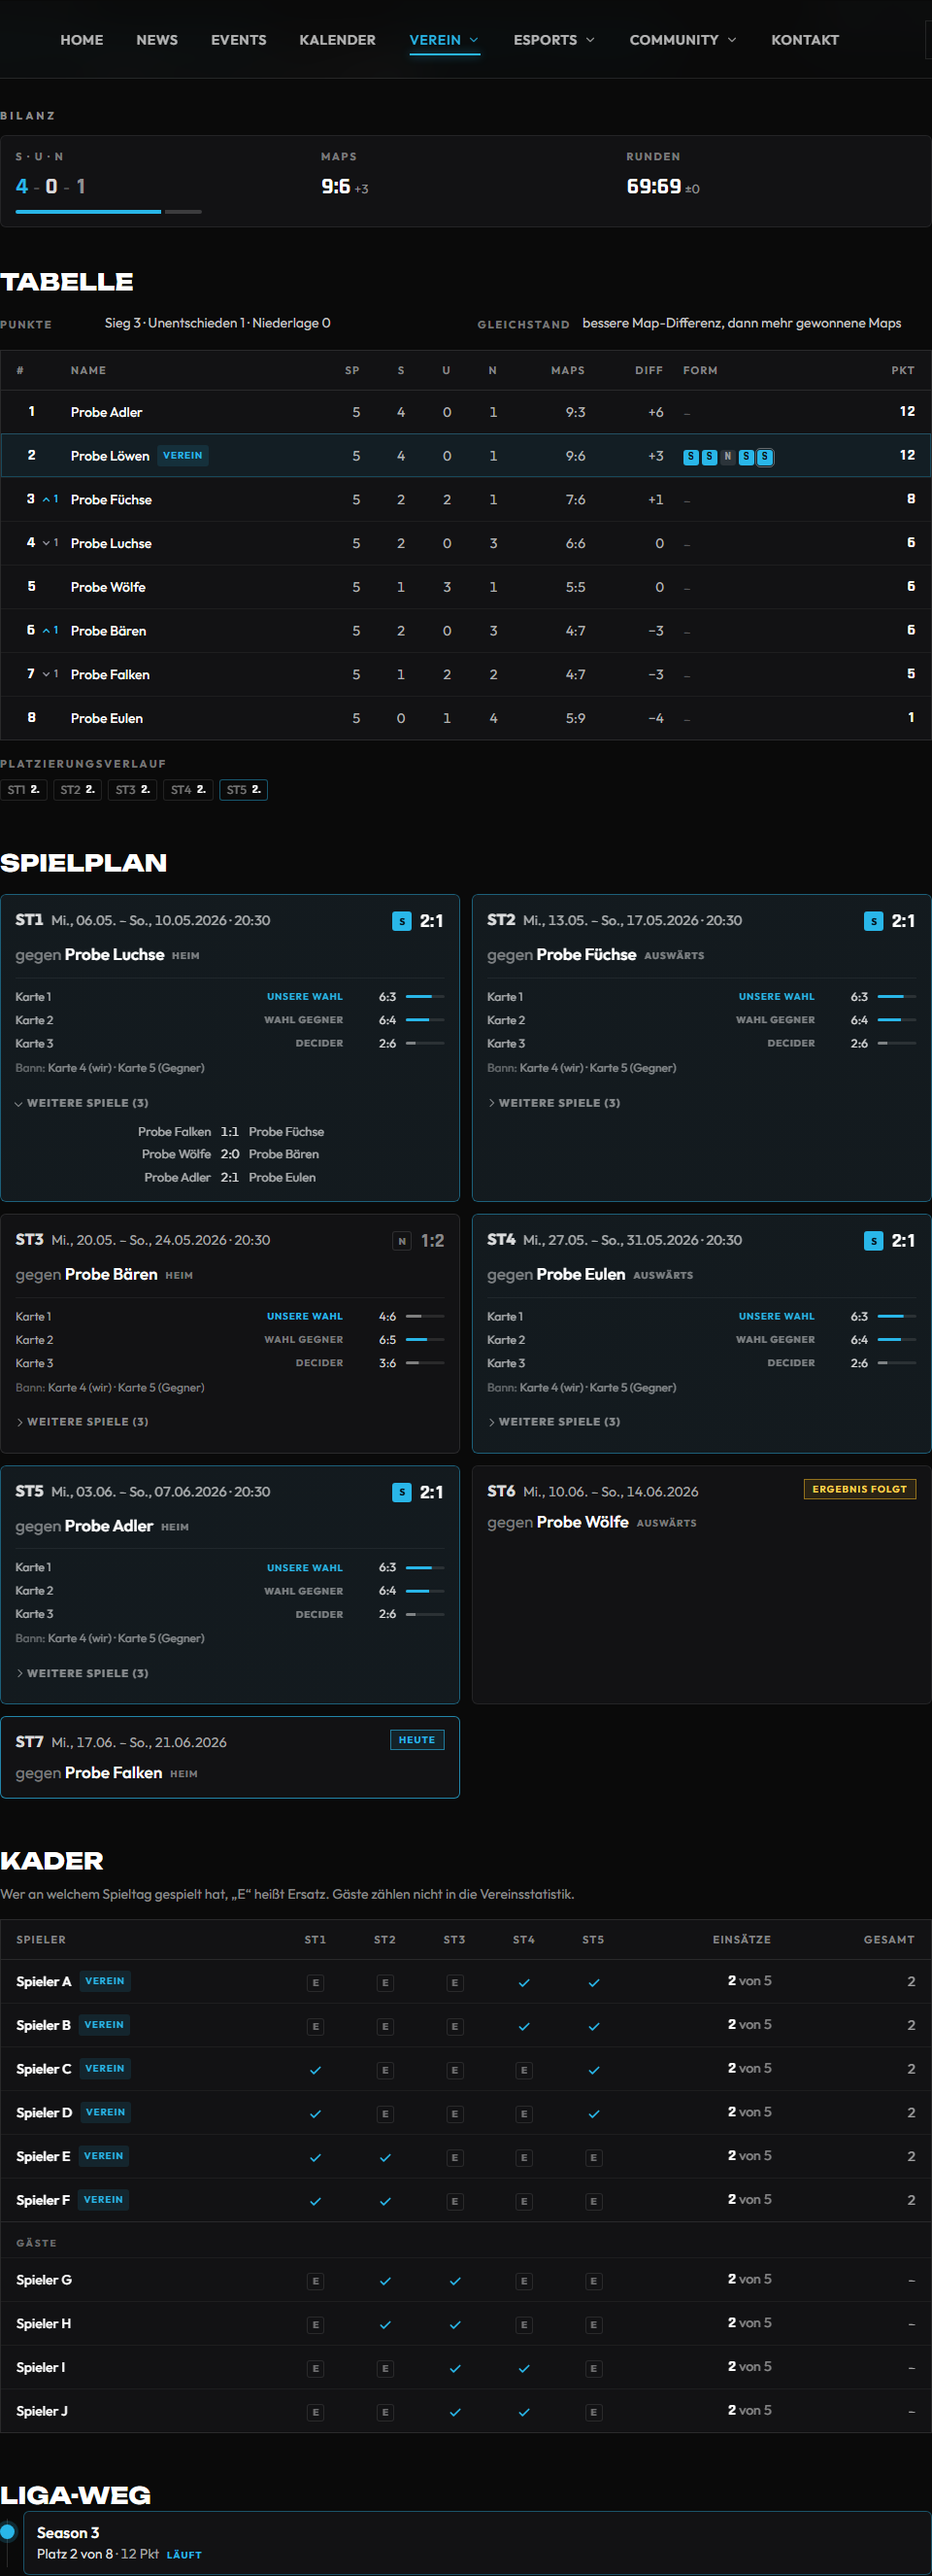
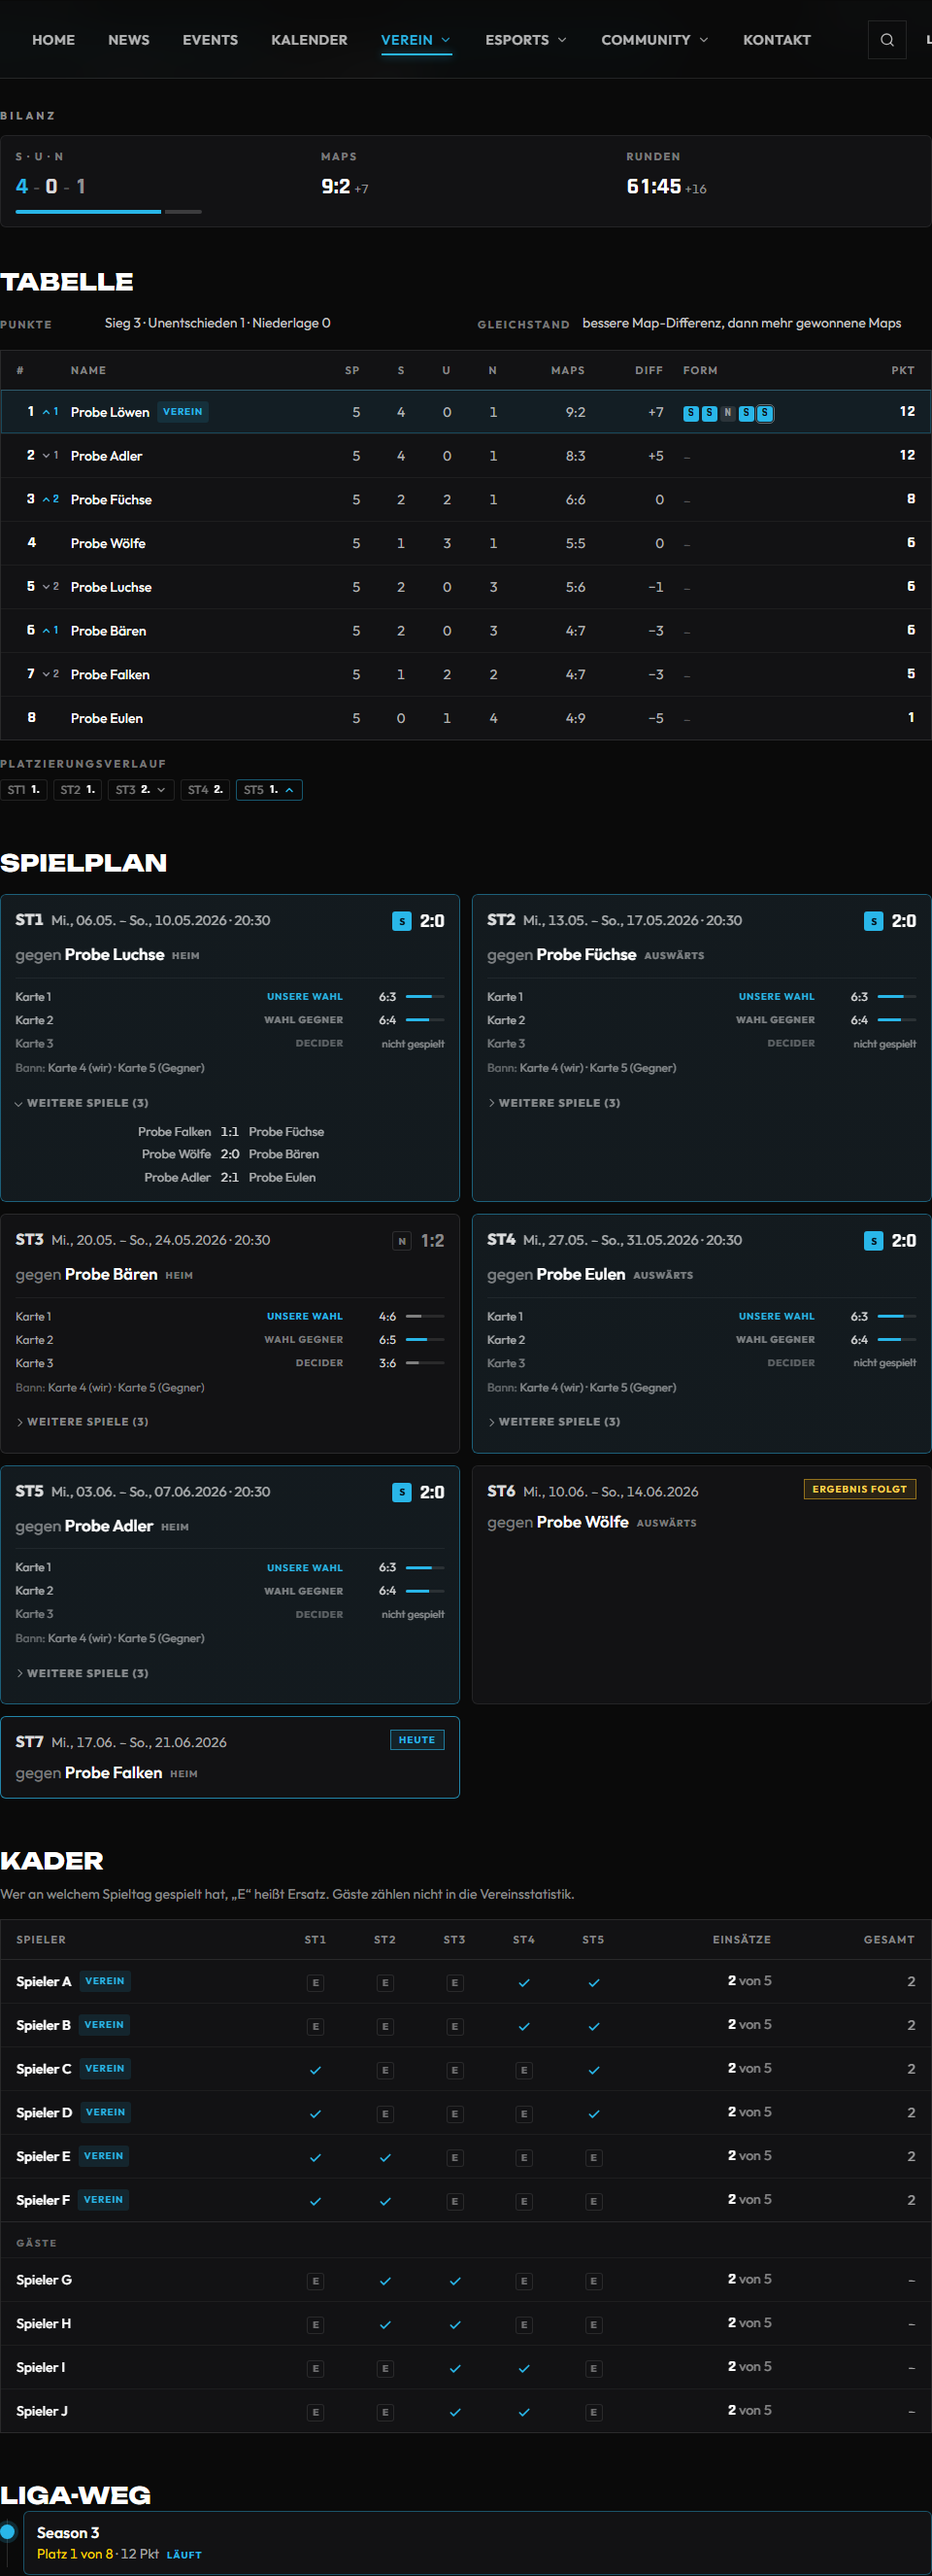
docs: Team-Liga – ganzes Veto auf der Karte, Bilder bei 1440 und 390 px (#1931)
Handbuch und Vertrag beschreiben `veto` und die abgeschwächten, nicht gespielten Maps; die Bilder der Seite zeigen einen
2:0-Spieltag mit nicht gespieltem Decider, das Handy-Bild jetzt bei 390 px.

diff --git a/docs/handbuch/inhalte.md b/docs/handbuch/inhalte.md
@@ -587,8 +587,9 @@ Team, das in den Spielen anders geschrieben ist („Gegner e.V.“ statt „Gegn
 werden nie neu gerechnet. Das eigene Team ist als „Verein“ markiert, mit Form (die letzten
 fünf eigenen Spiele) und darunter dem **Platzierungsverlauf** nach jedem Spieltag. Der **Spielplan** zeigt jeden
 Spieltag als Karte: Tag und Uhrzeit des Spiels (bei einem Zeitraum beide Tage), Gegner mit Heim oder Auswärts, das
-Ergebnis (Rand und Kürzel S/U/N in Sieg- bzw. Niederlagen-Farbe), die gespielten Maps (mit Ergebnis) mit **Unsere
-Wahl**, **Wahl Gegner** oder **Decider**, die gebannten Maps und – zugeklappt – die **weiteren Spiele** des Spieltags.
+Ergebnis (Rand und Kürzel S/U/N in Sieg- bzw. Niederlagen-Farbe), das ganze Veto in seiner Reihenfolge – die Maps mit
+**Unsere Wahl**, **Wahl Gegner** oder **Decider** (eine Wahl bzw. der Decider ohne Ergebnis, etwa beim 2:0,
+abgeschwächt mit „nicht gespielt“), darunter die gebannten Maps – und zugeklappt die **weiteren Spiele** des Spieltags.
 Spielen zwei eigene Teams am selben Spieltag, stehen beide Spiele auf der Karte. Der **Kader** zeigt alle
 Spieler der eigenen Teams, auch wer noch nicht gespielt hat: je Spieltag ein Haken (gespielt) oder **E** (Ersatz – im
 Kader, aber nicht aufgestellt), unter **Einsätze** etwa „2 von 5“ (von den Spielen des Teams mit Aufstellung).
@@ -600,8 +601,8 @@ der Kader im Abschnitt **Kader** der Saison.
 
 <table>
 <tr>
-<td><img src="../assets/serien/serien-seite-teamliga-breit.png" alt="Seite einer Team-Liga mit Spieltagen, Bilanz, Tabelle, Spieltagen als Karten mit Maps und Bann, Kader mit Einsätzen und Liga-Weg" width="560"></td>
-<td><img src="../assets/serien/serien-seite-teamliga-handy.png" alt="Dieselbe Seite am Handy mit 360 px, die weiteren Spiele des ersten Spieltags aufgeklappt" width="220"></td>
+<td><img src="../assets/serien/serien-seite-teamliga-breit.png" alt="Seite einer Team-Liga mit Spieltagen, Bilanz, Tabelle, Spieltagen als Karten mit dem ganzen Veto (nicht gespielter Decider abgeschwächt) und Bann, Kader mit Einsätzen und Liga-Weg" width="560"></td>
+<td><img src="../assets/serien/serien-seite-teamliga-handy.png" alt="Dieselbe Seite am Handy mit 390 px, die weiteren Spiele des ersten Spieltags aufgeklappt" width="220"></td>
 </tr>
 </table>
 

diff --git a/docs/entwicklung/serien-ergebnisse.md b/docs/entwicklung/serien-ergebnisse.md
@@ -66,6 +66,10 @@ und `driver_of_the_day` – nur, wo angegeben.
 - Die Serienseite liefert `team_league.record` (Bilanz je eigenem Team), je Spieltag `others` und in `lineup.players`
   `of`, `bench_round_ids`, `in_roster` und `team`; das Mitgliederprofil je verknüpfter Referenz `appearances`
   (`{played, of, unit, team}`, `services/series_appearances.py`).
+- Je eigenem Spiel `veto`: das ganze Veto in seiner Reihenfolge (`name`, `role`, `played`, `by?`, `map_id?`, `picked?`,
+  bei gespielten Maps dazu `score_for`, `score_against`, `outcome`). Eine Wahl bzw. ein Decider ohne Ergebnis steht dort
+  mit `played: false` – die Web-Karte zeigt sie abgeschwächt mit „nicht gespielt“. `maps` bleibt bei den gespielten
+  Maps (so liest es die App), `bans` bei den gesperrten.
 
 **Eigene Teams (#1926):** Die Serie hat `own_teams` (`[{name, aliases}]`, `team_name` = das erste). Ein Team aus der
 Liste, aus `matches` oder der Tabelle zählt als eigenes, wenn Name oder Alias ohne Groß/klein, Leer- und Satzzeichen
